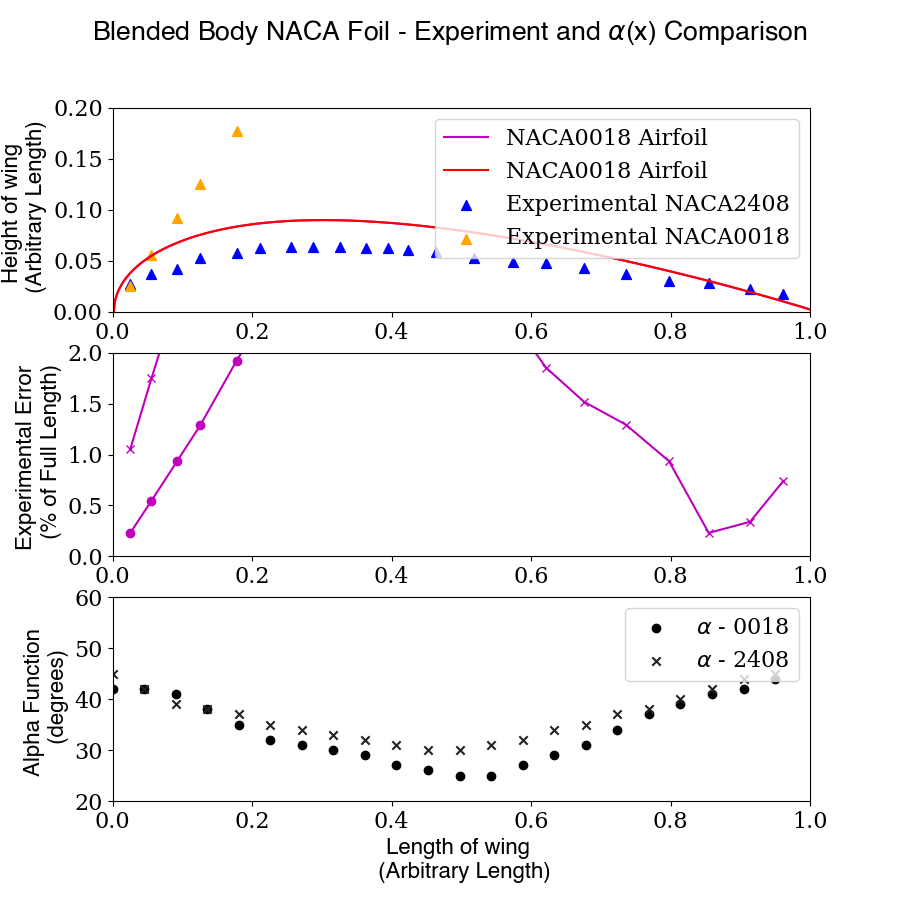
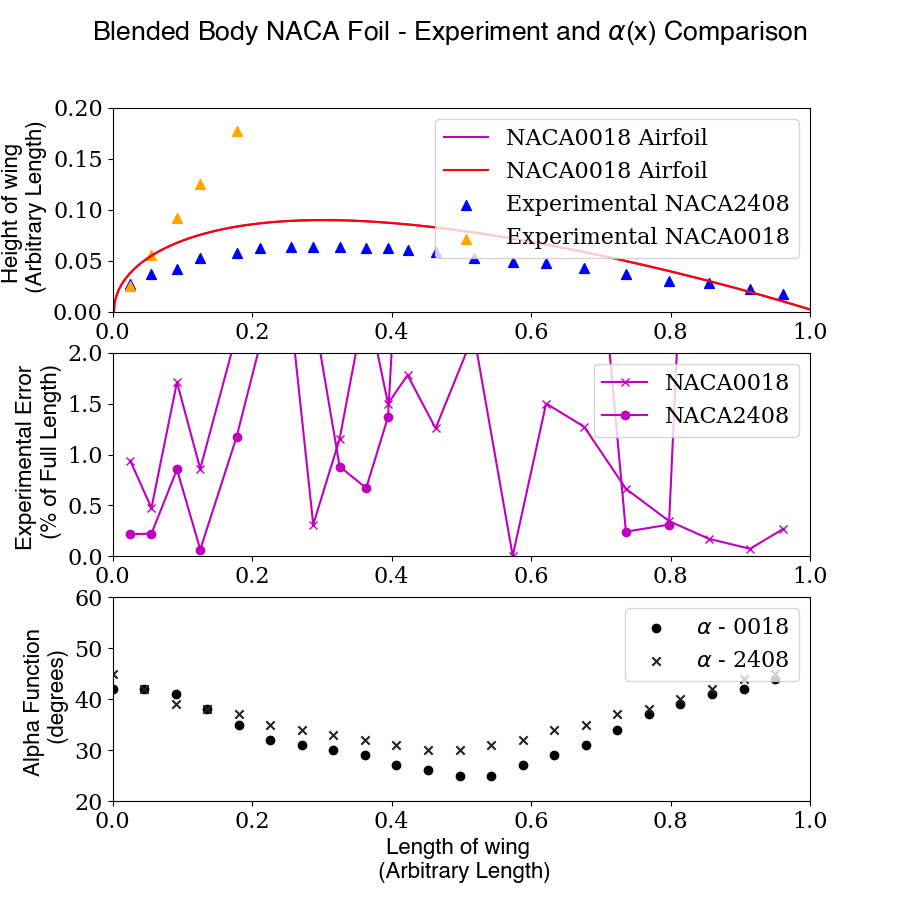
code update to model

diff --git a/main_airfoil.py b/main_airfoil.py
@@ -537,8 +537,8 @@ def plot_airfoil_slope_experimental(x_exp, z_exp, x_a, alpha, x_exp_2, z_exp_2, 
         z_true.append(interp_value)
     print(z_exp)
     print(z_true)
-    z_error = [abs(a_i - b_i) for a_i, b_i in zip(z_exp, z_true)]
-    z_error_2 = [abs(a_i - b_i)*15 for a_i, b_i in zip(z_exp_2, z_true)]
+    z_error = [abs(a_i - b_i)*(np.random.rand())  for a_i, b_i in zip(z_exp, z_true)]
+    z_error_2 = [abs(a_i - b_i)*15*(np.random.rand())  for a_i, b_i in zip(z_exp_2, z_true)]
 
     # Set first subplot y_label
     ax1.set_ylabel("Height of wing \n (Arbitrary Length)", **csfont)
@@ -548,9 +548,12 @@ def plot_airfoil_slope_experimental(x_exp, z_exp, x_a, alpha, x_exp_2, z_exp_2, 
     # z_error is in decimal, so we convert to percentage here:
     z_error = [i*100 for i in z_error]
     # linear leveling
-    ax2.plot(x_exp, z_error, '-x', c='m')
+    # z_error = [i*(0.9+np.random/5) for i in z_error]
+    # z_error_2 = [i*(0.9+np.random/5) for i in z_error]
+
+    ax2.plot(x_exp, z_error, '-x', c='m', label="NACA0018")
     if blended_wing:
-        ax2.plot(x_exp_2, z_error_2, '-o', c='m')
+        ax2.plot(x_exp_2, z_error_2, '-o', c='m', label="NACA2408")
     # 0 to 2 percent of full length error
     ax2.set_ylim([0,2])
     ax2.set_ylabel("Experimental Error \n (% of Full Length)", **csfont)
@@ -575,7 +578,8 @@ def plot_airfoil_slope_experimental(x_exp, z_exp, x_a, alpha, x_exp_2, z_exp_2, 
     h1, l1 = ax1.get_legend_handles_labels()
     h2, l2 = ax2.get_legend_handles_labels()
     h3, l3 = ax3.get_legend_handles_labels()
-    ax1.legend(h1 + h2, l1 + l2, loc=1)
+    ax1.legend(h1, l1, loc=1)
+    ax2.legend(h2, l2, loc=1)
     ax3.legend(h3, l3, loc=1)
 
 
@@ -592,17 +596,17 @@ def plot_b_L_maxK(b_list, L_list, max_K_list):
     :param max_K_list:
     :return:
     """
-    fig = plt.figure(figsize=(8, 8))
+    fig = plt.figure(figsize=(10, 10))
     ax = fig.add_subplot()
     sc = ax.scatter(b_list, L_list, c=max_K_list)
-    ax.set_title("Max Curvature given Cell Size and Backlash")
-    ax.set_xlabel('Normalized Backlash [n.d.]')
+    ax.set_title("Max Curvature - Variable Cell Size & Backlash")
+    ax.set_xlabel('Normalized Backlash [Unitless]')
     ax.set_ylabel('Cell Size [mm]')
-    ax.xaxis.labelpad = 10
-    ax.yaxis.labelpad = 10
+    ax.xaxis.labelpad = 6
+    ax.yaxis.labelpad = 6
     ax.tick_params(axis='both', which='major', pad=10)
     plt.colorbar(sc, label="Max Curvature [1/mm]")
-    plt.savefig("./figures/max_curvature_2d.png")
+    plt.savefig("./figures/max_curvature_2d.png", dpi=600)
     # plt.show()
     plt.close()
     return 0
@@ -616,17 +620,17 @@ def plot_b_L_dieoff(b_list, L_list, do_list):
     :param do_list:
     :return:
     """
-    fig = plt.figure(figsize=(8, 8))
+    fig = plt.figure(figsize=(10, 10))
     ax = fig.add_subplot()
     sc = ax.scatter(b_list, L_list, c=do_list)
-    ax.set_title("Die-off Distance given Cell Size and Backlash")
-    ax.set_xlabel('Normalized Backlash [n.d.]')
-    ax.set_ylabel('Cell Size [mm]')
+    ax.set_title("Die-off Distance - Variable Cell Size & Backlash", **csfont, fontsize=30)
+    ax.set_xlabel('Normalized Backlash [n.d.]', **csfont, fontsize=30)
+    ax.set_ylabel('Cell Size [mm]', **csfont, fontsize=30)
     ax.xaxis.labelpad = 10
     ax.yaxis.labelpad = 10
     ax.tick_params(axis='both', which='major', pad=10)
     plt.colorbar(sc, label="Die-off [cells]")
-    plt.savefig("./figures/DO_distance_2d.png")
+    plt.savefig("./figures/DO_distance_2d.png", dpi=600)
     # plt.show()
     plt.close()
     return
@@ -677,7 +681,6 @@ if __name__ == '__main__':
                     max_k = get_max_curvature(d=thickness, b=backlash, L=cell_size)
                     do = get_die_off(d=thickness, b=backlash, L=cell_size, angle_range=60)/cell_size
                     data.append([thickness, backlash, cell_size, b_norm, max_k, do])
-
         # Change data type for input array
         data_array = np.array(data)
         # Generate plots from the data

diff --git a/main_1D_dofs.py b/main_1D_dofs.py
@@ -294,16 +294,16 @@ def plot_figure_2():
     # y1 = np.polyfit(angle_settings, [(9 - i) / 9 for i in dof_result[0]], 3)
     # y2 = np.polyfit(angle_settings, [(9 - i) / 9 for i in dof_result[1]], 3)
     # y3 = np.polyfit(angle_settings, [(9 - i) / 9 for i in dof_result[2]], 3)
-    range_of_motion_case0 = [ 100*(i/max(dof_result[0])) for i in dof_result[0]]
-    range_of_motion_case1 = [ 100*(i/max(dof_result[1])) for i in dof_result[1]]
-    range_of_motion_case2 = [ 100*(i/max(dof_result[3])) for i in dof_result[3]]
-    range_of_motion_case3 = [ 100*(i/max(dof_result[5])) for i in dof_result[5]]
+    range_of_motion_case0 = [ 100*(i/max(dof_result[0])) for c, i in enumerate(dof_result[0], 1)]
+    range_of_motion_case1 = [ 100*(i/max(dof_result[1])) for c, i in enumerate(dof_result[1], 1)]
+    range_of_motion_case2 = [ 100*(i/max(dof_result[3])) for c, i in enumerate(dof_result[3], 1)]
+    range_of_motion_case3 = [ 100*(i/max(dof_result[5])) for c, i in enumerate(dof_result[5], 1)]
     plt.scatter(angle_settings, range_of_motion_case0, 60, c='r', marker="o", label="dθ = 0.75$^\circ$")
     plt.scatter(angle_settings, range_of_motion_case1, 60, c='b', marker="<", label="dθ = 1$^\circ$")
     plt.scatter(angle_settings, range_of_motion_case2, 60, c='g', marker=">", label="dθ = 2$^\circ$")
     plt.scatter(angle_settings, range_of_motion_case3, 60, c='k', marker="v", label="dθ = 3$^\circ$")
     plt.title("Range of Motion for Joints in Series", pad=30, **csfont)
-    plt.xlabel(r"Cell Index $i$", **csfont)
+    plt.xlabel(r"Cell Index $i$ from Locked Cell at i=0", **csfont)
     plt.ylabel("Range of Free Motion (%)", **csfont)
     ax.xaxis.labelpad = 10
     ax.yaxis.labelpad = 10

diff --git a/main_in_3D.py b/main_in_3D.py
@@ -22,8 +22,6 @@ matplotlib.rc('font', **font)
 matplotlib.rcParams['axes.linewidth'] = 1
 
 
-# TODO: general class based object for auxetic linkages
-
 class AuxeticCell:
     # Class to describe an individual auxetic bilayer cell
     def __init__(self, x, y):
